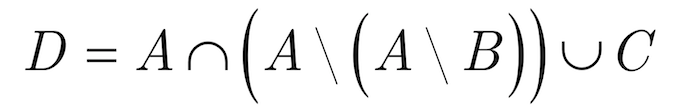
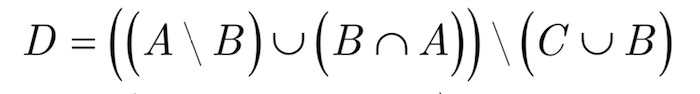
add_normal_algorithms and change variant

Changed region(s): [[0.03, 0.0851, 0.96, 0.9574], [0.33, 0.0851, 0.39, 0.1489], [0.36, 0.8723, 0.39, 0.9362]]

diff --git a/first.py b/first.py
@@ -13,7 +13,7 @@ def student():
     Label(slave, text='Данилюк Денис\n'
                       'група ІВ-82\n'
                       'варіант 2\n'
-                      '((8+82%60)%30)+1',
+                      '((8+82%60)%30)+1 = {}'.format(((8 + 82 % 60) % 30) + 1),
           justify=LEFT, font="Arial 14").pack(fill='both')
 
 
@@ -144,15 +144,17 @@ def window2():
         lf.grid(column=0, row=5, columnspan=4)
         Label(lf, text='\n'
                        '1) (A - B) = {f1}\n'
-                       '2) (A - (A - B)) = {f2}\n'
-                       '3) (A & (A - (A - B))) = {f3}\n'
-                       '4) (A & (A - (A - B))) | C)  = {rez}\n\n'
+                       '2) (B & A) = {f2}\n'
+                       '3) (C | B) = {f3}\n'
+                       '4) (A - B) | (B & A) = {f4}\n'
+                       '5) ((A - B) | (B & A)) - (C | B)  = {rez}\n\n'
                        'Відповідь: {rez}'
               .format(
                     f1=(A - B),
-                    f2=(A - (A - B)),
-                    f3=(A & (A - (A - B))),
-                    rez=zad_alg.func_1(A, B, C)),
+                    f2=(B & A),
+                    f3=(C | B),
+                    f4=(A - B) | (B & A),
+                    rez=zad_alg.func_1_full(A, B, C)),
               font='Arial 14', justify=LEFT).grid(column=0, row=5, sticky=W, columnspan=4)
 
     def but_disable(event):
@@ -166,7 +168,7 @@ def window2():
           font="Arial 14", justify=LEFT).grid(column=0, row=1, sticky=W, columnspan=3)
 
     Label(slave, text='Заданий вираз:\n'
-                      'D = (A & (A - (A - B)) | C) = {}\n'.format(zad_alg.func_1(A, B, C)),
+                      'D = ((A - B) | (B & A)) - (C | B) = {}\n'.format(zad_alg.func_1_full(A, B, C)),
           font='Arial 14 bold').grid(column=0, row=0, sticky=W, columnspan=2)
 
     Button(slave, text="Показати розв'язок", font="Arial 12",
@@ -176,7 +178,7 @@ def window2():
 
     but.grid(column=1, row=3)
 
-    but.bind("<Button-1>", save_to_file_2(zad_alg.func_1(A, B, C)))
+    but.bind("<Button-1>", save_to_file_2(zad_alg.func_1_full(A, B, C)))
     but.bind("<Button-1>", but_disable)
 
     photo = PhotoImage(file="photo.png")
@@ -196,14 +198,12 @@ def window3():
         lf = LabelFrame(slave, text="Розв'язок", font='Arial 12')
         lf.grid(column=0, row=5, columnspan=4)
         Label(lf, text='\n'
-                       '1) (A & B) = {f1}\n'
-                       '2) (A & B) | C  = {rez1}\n'
-                       '3) (A & (A - (A - B))) | C  = {rez2}\n\n'
-                       'Відповідь: {rez2}'
+                       '1) (С | B) = {f1}\n'
+                       '2) A - (C | B)  = {rez1}\n\n'
+                       'Відповідь: {rez1}'
               .format(
-                    f1=(A & B),
-                    rez1=(A & B | C),
-                    rez2=zad_alg.func_1(A, B, C)),
+                    f1=(C | B),
+                    rez1=zad_alg.func_1_small(A, B, C)),
               font='Arial 14', justify=LEFT).grid(column=0, row=5, sticky=W, columnspan=4)
 
     def but_disable(event):
@@ -217,7 +217,7 @@ def window3():
           font="Arial 14", justify=LEFT).grid(column=0, row=1, sticky=W, columnspan=3)
 
     Label(slave, text='Заданий вираз:\n'
-                      'D = (A & (A - (A - B)) | C) = (A & B | C) = {}\n'.format(zad_alg.func_1(A, B, C)),
+                      'D = (A - (C | B)) = {}\n'.format(zad_alg.func_1_small(A, B, C)),
           font='Arial 14 bold').grid(column=0, row=0, sticky=W, columnspan=2)
 
     Button(slave, text="Показати розв'язок", font="Arial 12",
@@ -225,7 +225,7 @@ def window3():
 
     but = Button(slave, text='Зберегти в файл', font='Arial 12')
     but.grid(column=1, row=3)
-    but.bind("<Button-1>", save_to_file_3(zad_alg.func_1(A, B, C)))
+    but.bind("<Button-1>", save_to_file_3(zad_alg.func_1_small(A, B, C)))
     but.bind("<Button-1>", but_disable)
 
     photo = PhotoImage(file="photo.png")
@@ -244,7 +244,7 @@ def window4():
     def show():
         lf = LabelFrame(slave_2, text="Розв'язок", font='Arial 12')
         lf.grid(column=0, row=7, sticky=W, columnspan=4)
-        Label(lf, text='Z = {d}\n'.format(d=A | B),
+        Label(lf, text='Z = {d}\n'.format(d=zad_alg.func_2_my(A, B)),
               font='Arial 14', justify=LEFT, width=87, height=5).grid(column=0, row=7, sticky=W, columnspan=4)
 
     def but_disable(event):
@@ -256,7 +256,7 @@ def window4():
         .grid(column=0, row=0, sticky=W, columnspan=2)
 
     Button(slave_2, text="Показати розв'язок", font="Arial 12", command=show).grid(column=0, row=3)
-    but = Button(slave_2, text='Зберегти в файл', font='Arial 12', command=save_to_file_4(zad_alg.func_2(A, B)))
+    but = Button(slave_2, text='Зберегти в файл', font='Arial 12', command=save_to_file_4(zad_alg.func_2_my(A, B)))
     but.grid(column=1, row=3)
     but.bind("<Button-1>", but_disable)
 
@@ -280,7 +280,7 @@ def window5():
     d1 = f2.read()
     d2 = f3.read()
     z1 = f4.read()
-    z2 = str(A & B)
+    z2 = str(A - B)
 
     rez1 = 'Результати сходяться' if d1 == d2 else 'Помилка в обчисленні'
     rez2 = 'Результати сходяться' if z1 == z2 else 'Помилка в обчисленні'

diff --git a/zadanyy_algorytm.py b/zadanyy_algorytm.py
@@ -1,29 +1,52 @@
-def func_1(A, B, C):
-    x = set((A & (A - (A - B)) | C))
+def func_1_full(A, B, C):
+    # y = set(((A - B) | (B & A)) - (C | B))
+    x = set(difference(union(difference(A, B), crossing(B, A)), union(C, B)))
     return x
 
 
-# crossing my
-def func_2(A, B):
+def func_1_small(A, B, C):
+    # y = set(A - (C | B))
+    x = set(difference(A, union(C, B)))
+    return x
+
+
+def func_2_my(A, B):
     A = list(A)
     B = list(B)
     C = []
-    for j in range(len(A)):
-        for i in range(len(B)):
-            if A[j] == B[i]:
-                C.append(A[j])
-
+    for i in A:
+        q = 0
+        for j in B:
+            if i == j:
+                q = 1
+        if q == 0:
+            C.append(i)
     return set(C)
 
 
-# crossing python
-def func_3(A, B):
+def func_2_python(A, B):
     x = set(A & B)
     return x
 
 
-# not my function
-def Difference(A, B):
+###################
+# other functions #
+###################
+def crossing(A, B):
+    a = list(A)
+    b = list(B)
+    c = b.copy()
+    for i in a:
+        q = 0
+        for j in b:
+            if i == j:
+                q = 1
+        if q == 0:
+            c.append(i)
+    return set(c)
+
+
+def difference(A, B):
     A = list(A)
     B = list(B)
     C = []
@@ -37,8 +60,7 @@ def Difference(A, B):
     return C
 
 
-# not my function
-def Union(a, b):
+def union(a, b):
     a = list(a)
     b = list(b)
     c = b.copy()
@@ -52,8 +74,7 @@ def Union(a, b):
     return c
 
 
-# not my function
-def Sym_dif(a, b):
+def sym_dif(a, b):
     a = list(a)
     b = list(b)
     c = []
@@ -66,8 +87,7 @@ def Sym_dif(a, b):
     return (c)
 
 
-# not my function
-def No_set(A, U):
+def no_set(A, U):
     """Другим аргументом передавати уныверсальну множину"""
     U = list(U)
     A = list(A)
